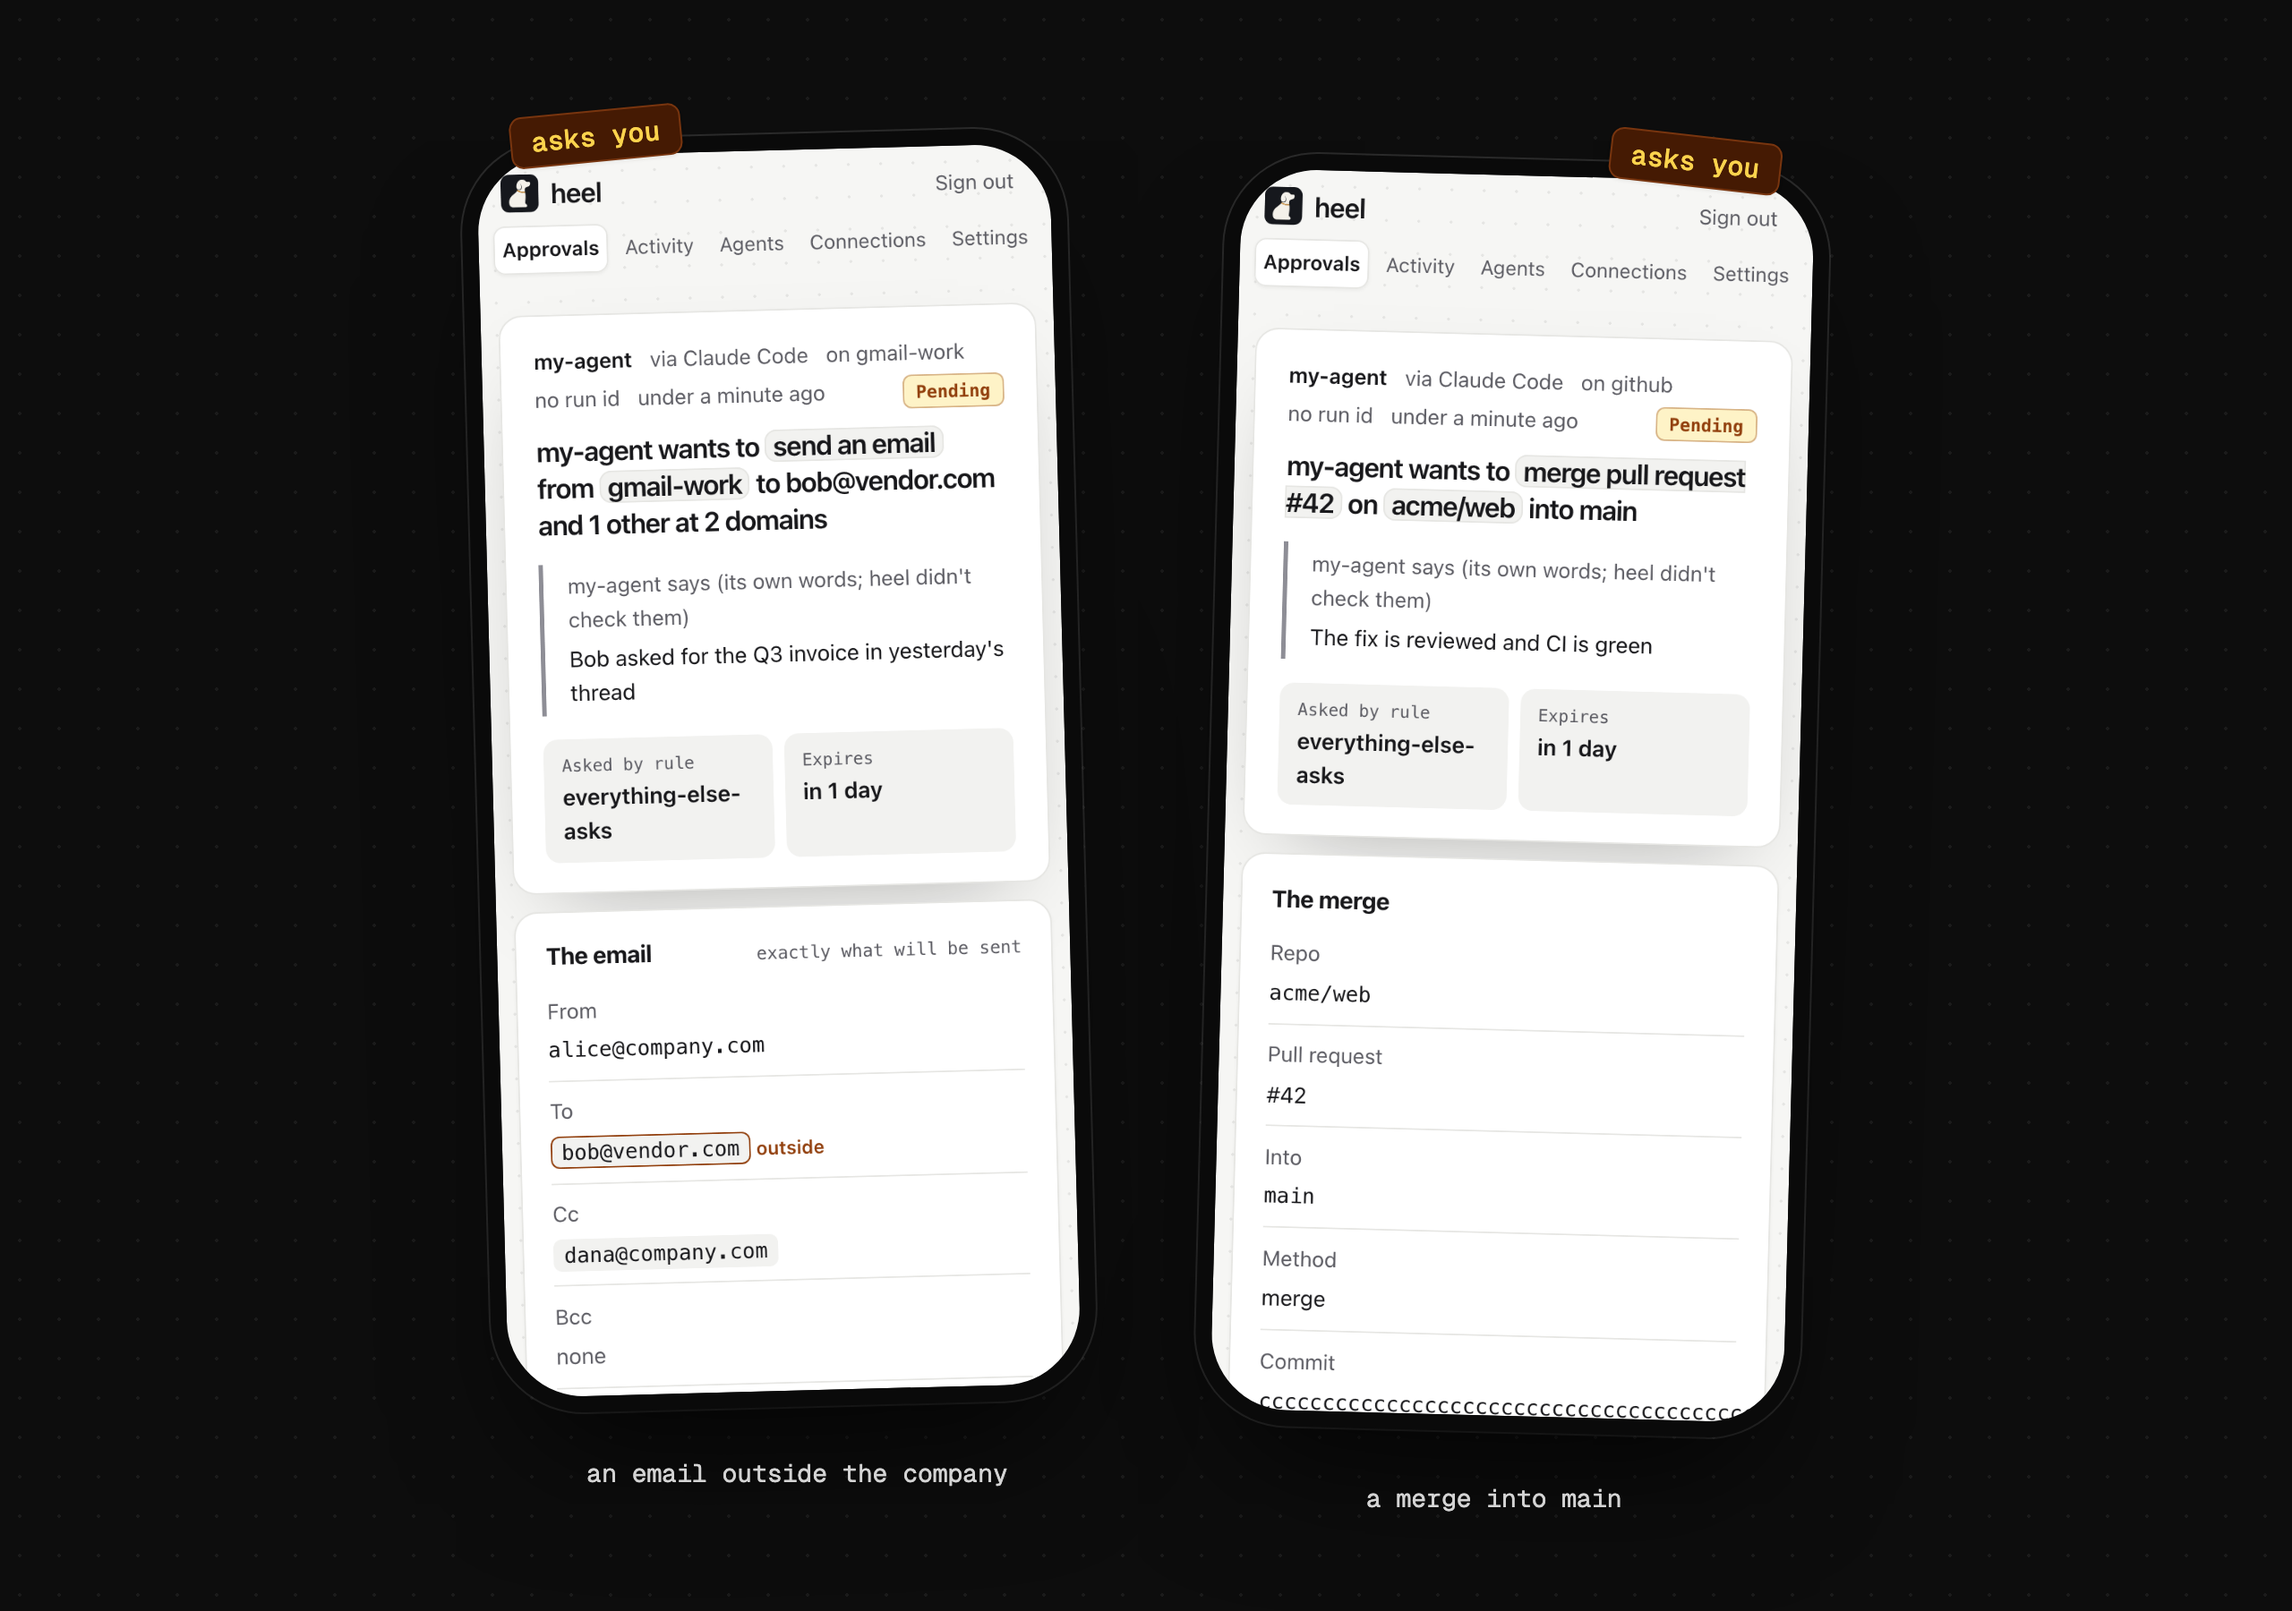
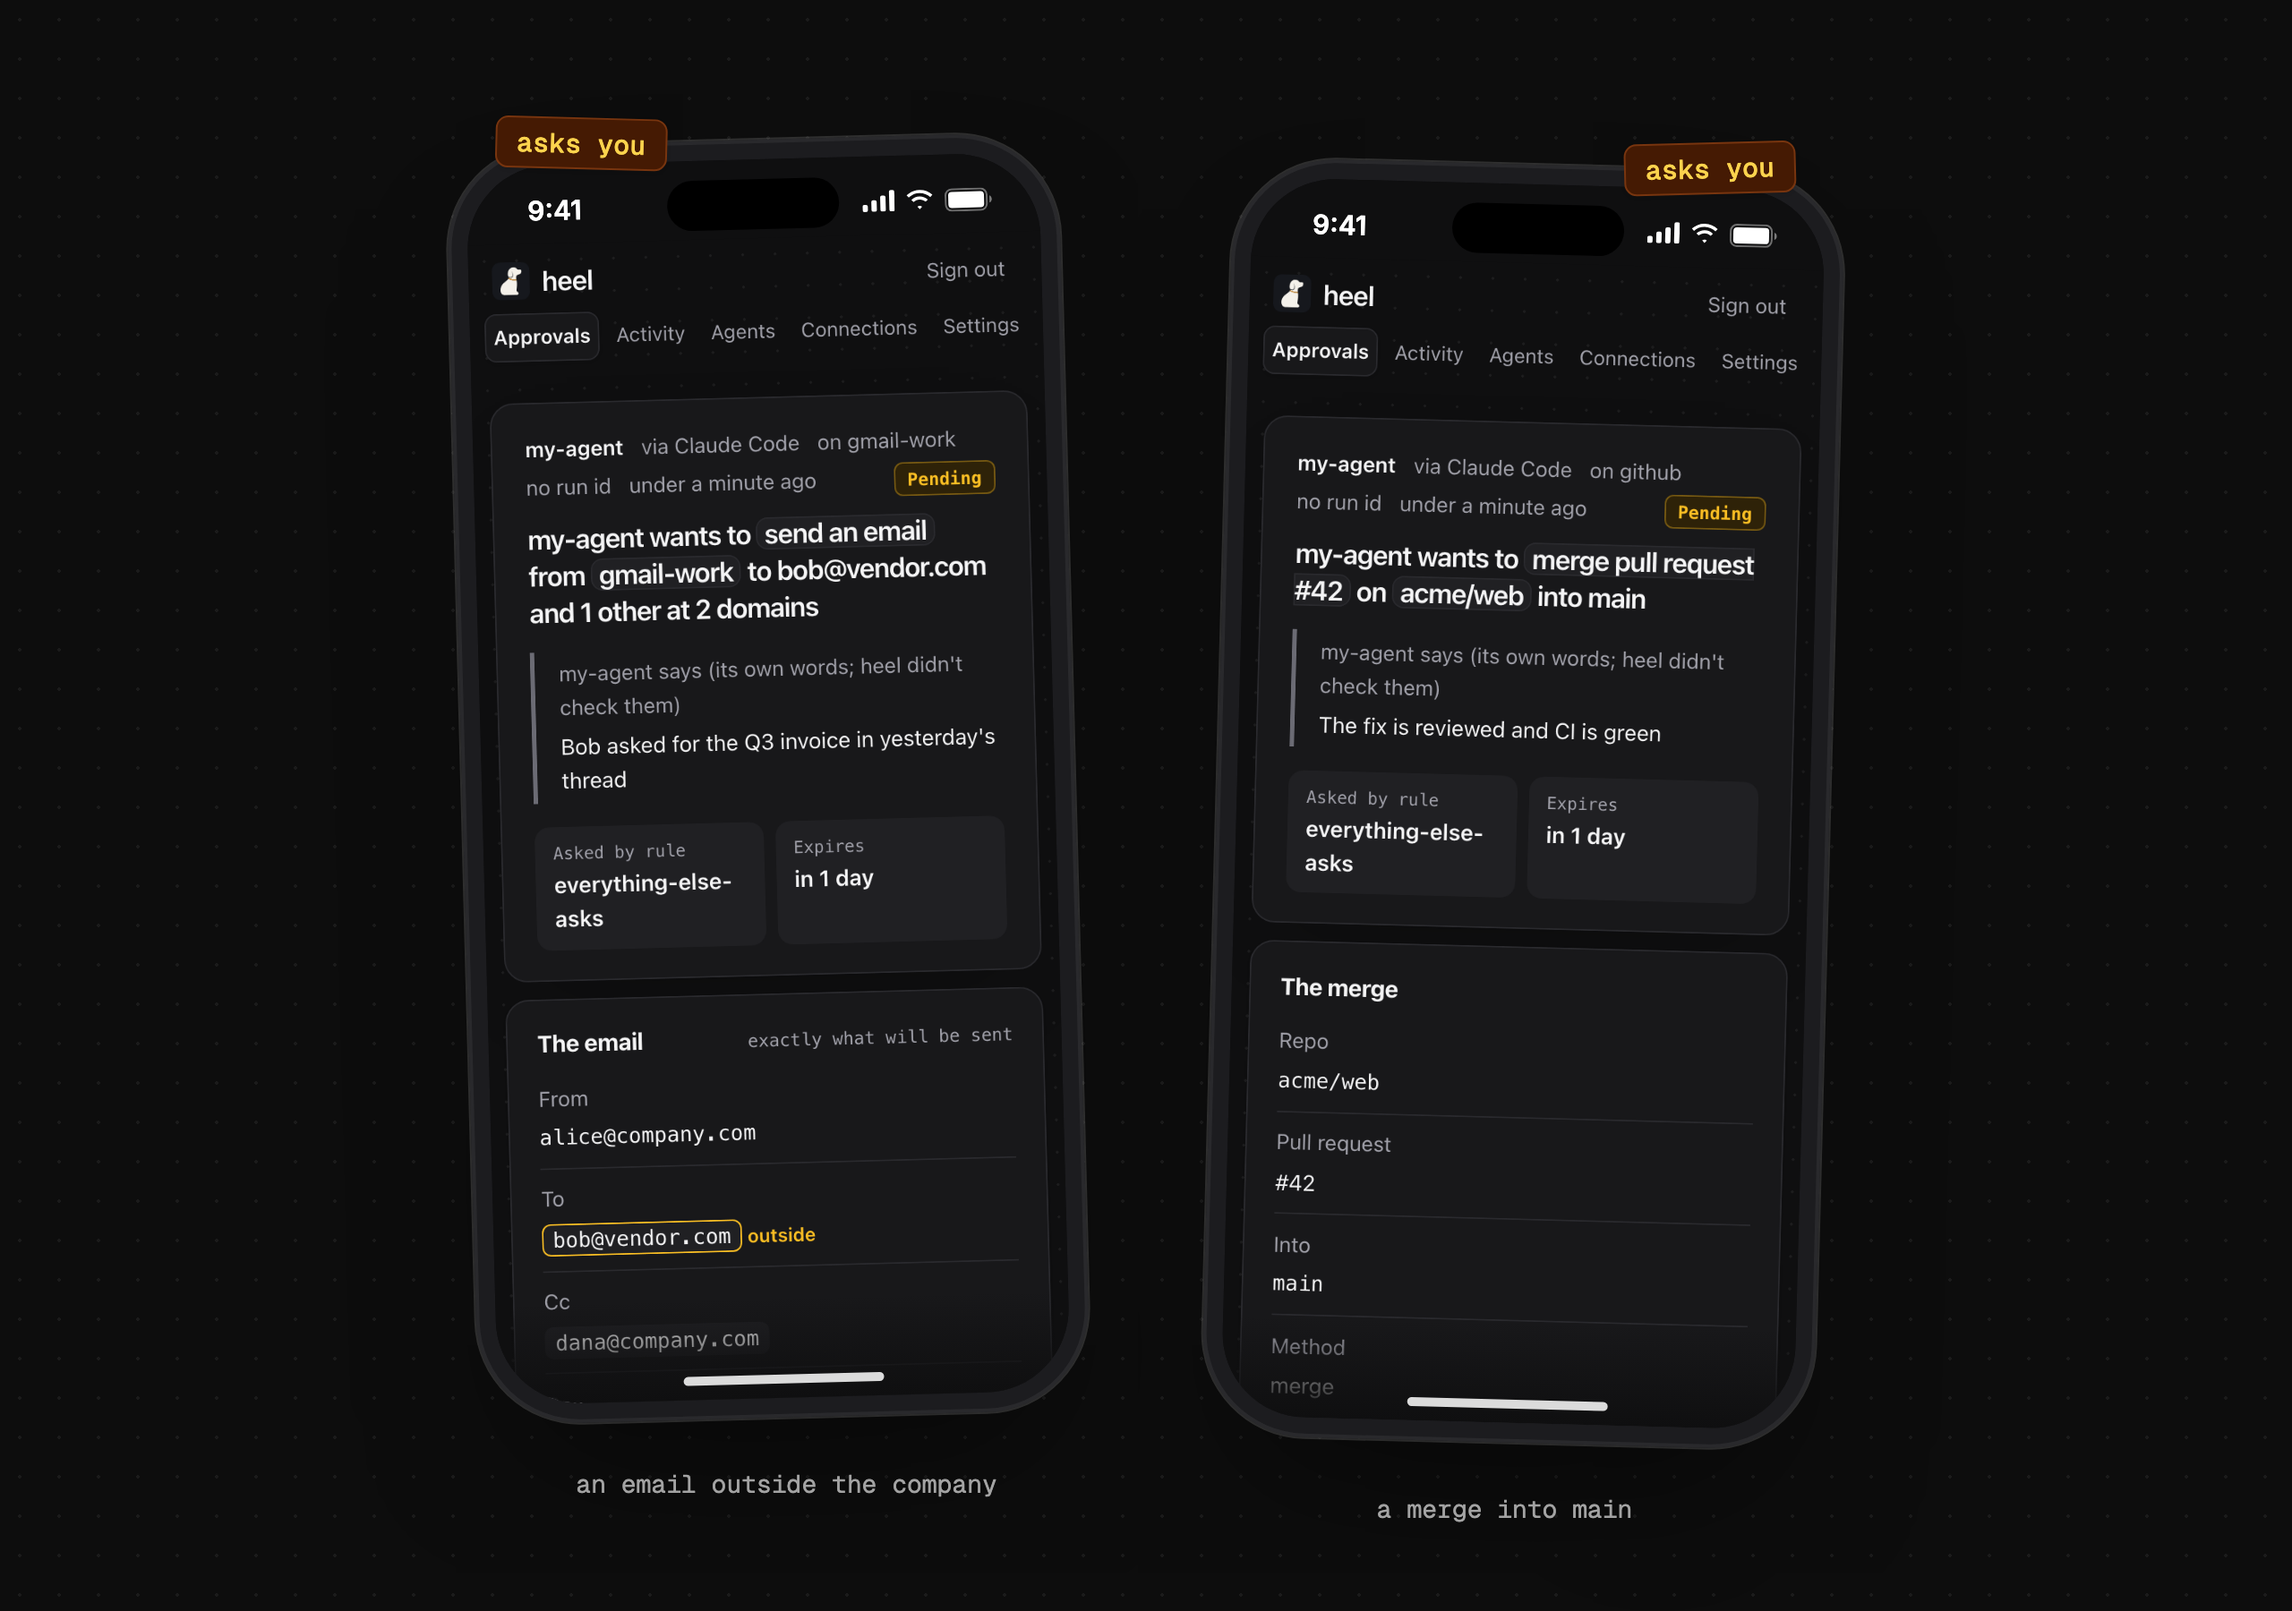
docs: the README follows the reader's theme everywhere, and its phones look like phones
The video gets a dark version, switched with a picture element like the banner. The approval phones get a status bar, camera cutout and home bar, so the page sits inside the screen instead of under its corners, and the dark image shows heel's dark theme: docs:screenshots now also captures the two approval screens in dark.

diff --git a/e2e/docs/screenshots.test.ts b/e2e/docs/screenshots.test.ts
@@ -169,10 +169,16 @@ async function setUp() {
  * One screen as a person sees it: a phone shows the first screenful, with
  * the decision bar where it sits; a laptop shows the whole page.
  */
-async function shoot(page: Page, name: string): Promise<void> {
+async function shoot(page: Page, name: string, { dark = false } = {}): Promise<void> {
   await page.waitForLoadState("networkidle");
   const phone = (page.viewportSize()?.width ?? 0) < 600;
   await page.screenshot({ path: join(OUT, `${name}.png`), fullPage: !phone });
+  // The README's phones follow the reader's theme, so these screens come in dark too.
+  if (dark) {
+    await page.emulateMedia({ colorScheme: "dark" });
+    await page.screenshot({ path: join(OUT, `${name}-dark.png`), fullPage: !phone });
+    await page.emulateMedia({ colorScheme: "light" });
+  }
 }
 
 it("captures the docs screenshots", async () => {
@@ -243,9 +249,9 @@ it("captures the docs screenshots", async () => {
     await page.goto(`${origin}/approvals`);
     await shoot(page, "approvals");
     await page.goto(`${origin}/approvals/${send.approvalId}`);
-    await shoot(page, "approval-email");
+    await shoot(page, "approval-email", { dark: true });
     await page.goto(`${origin}/approvals/${merge.approvalId}`);
-    await shoot(page, "approval-merge");
+    await shoot(page, "approval-merge", { dark: true });
     await page.getByRole("button", { name: "Approve once" }).click();
     await page.waitForLoadState("networkidle");
     await page.reload();

diff --git a/README.md b/README.md
@@ -17,7 +17,12 @@
 
 heel sits between an agent and everything it touches (MCP servers, HTTP APIs and CLIs). It holds the credentials and checks every call against rules on the call's actual arguments: who an email goes to, which account it comes from, which repo, how many messages this run has deleted. It also hides what an agent shouldn't read. Calls that need a person go to the owner's phone, outside the agent's session. One switch pauses any agent.
 
-[![heel checking three calls against what you asked: reading runs, a reply asks you, deleting 500 emails is blocked](assets/heel.gif)](assets/heel.mp4)
+<a href="assets/heel.mp4">
+  <picture>
+    <source media="(prefers-color-scheme: dark)" srcset="assets/heel-dark.gif">
+    <img src="assets/heel.gif" alt="heel checking three calls against what you asked: reading runs, a reply asks you, deleting 500 emails is blocked" width="100%">
+  </picture>
+</a>
 
 ## Get started
 
